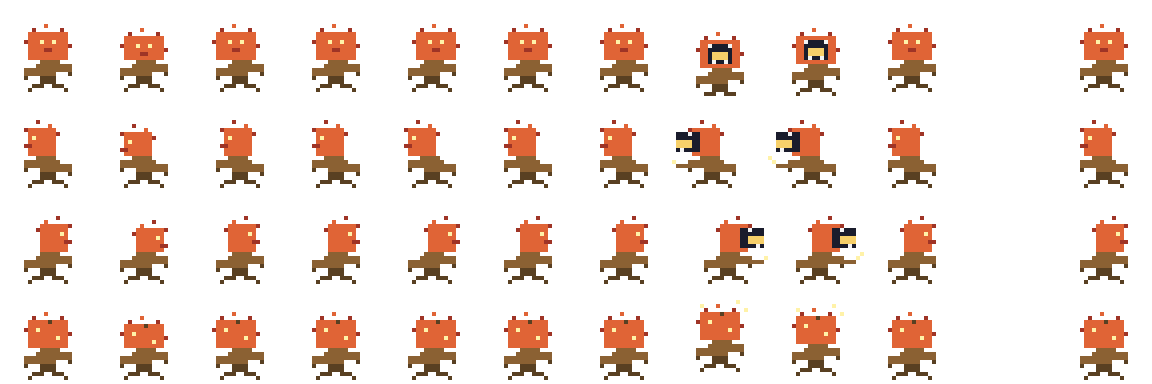
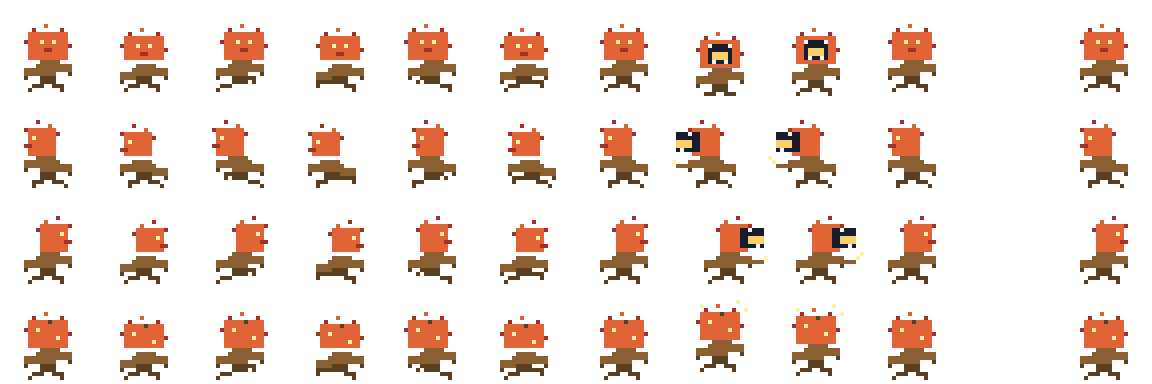
Repair shroom and carnivorous plant walk cycles

diff --git a/engine/renderer.js b/engine/renderer.js
@@ -838,31 +838,40 @@ function drawSpider(g, d, p, f, V, animId) {
 }
 
 function drawShroom(g, d, p, f, V, animId) {
-  const lean = (animId === 'walk') ? (f === 0 ? 1 : f === 2 ? -1 : 0) : 0;
-  const u = (animId === 'idle' && f === 1) ? 1 : 0;
+  const walking = animId === 'walk';
+  const gait = walking ? [
+    { x: 0,  bob: 0, lx: 8, ly: 20, rx: 13, ry: 19 },
+    { x: 1,  bob: 1, lx: 9, ly: 20, rx: 14, ry: 20 },
+    { x: 0,  bob: 0, lx: 9, ly: 19, rx: 14, ry: 20 },
+    { x: -1, bob: 1, lx: 8, ly: 20, rx: 13, ry: 20 },
+  ][f] : { x: 0, bob: 0, lx: 9, ly: 20, rx: 13, ry: 20 };
+  const u = walking ? gait.bob : ((animId === 'idle' && f === 1) ? 1 : 0);
+  const bx = gait.x;
   const ox = (d === 'right' ? p.lunge : 0);
   const oy = d === 'down' ? p.lunge : d === 'up' ? -p.lunge : 0;
   const S = (x, y, c) => g.set(x + ox, y + oy, c);
   const R = (x, y, w, h, c) => g.rect(x + ox, y + oy, w, h, c);
   const c = V.c;
 
-  // feet
-  R(9 + (lean === 1 ? 0 : 0), 20, 2, 2, CREAM[1]);
-  R(13, 20, 2, 2, CREAM[1]);
-  if (lean === 1) R(9, 19, 2, 1, CREAM[1]);
-  if (lean === -1) R(13, 19, 2, 1, CREAM[1]);
+  // The feet trade ground contact across all four walk frames while the
+  // complete upper body follows the step. This avoids the old detached cap
+  // slide where only the hat moved and the stem stayed frozen.
+  R(gait.lx, gait.ly, 2, 2, CREAM[1]);
+  R(gait.rx, gait.ry, 2, 2, CREAM[1]);
+  if (walking && f === 0) S(gait.lx - 1, gait.ly + 1, CREAM[1]);
+  if (walking && f === 2) S(gait.rx + 2, gait.ry + 1, CREAM[1]);
   // stem/body
-  R(9, 13 + u, 6, 7 - u, CREAM[0]);
-  R(9, 13 + u, 1, 7 - u, CREAM[1]);
+  R(9 + bx, 13 + u, 6, 7 - u, CREAM[0]);
+  R(9 + bx, 13 + u, 1, 7 - u, CREAM[1]);
   // face
   if (d === 'down') {
-    S(10, 15 + u, INK); S(13, 15 + u, INK);
-    if (animId === 'attack') { S(11, 17 + u, INK); S(12, 17 + u, INK); }
+    S(10 + bx, 15 + u, INK); S(13 + bx, 15 + u, INK);
+    if (animId === 'attack') { S(11 + bx, 17 + u, INK); S(12 + bx, 17 + u, INK); }
   } else if (d === 'right') {
-    S(13, 15 + u, INK);
+    S(13 + bx, 15 + u, INK);
   }
   // cap
-  const cx = lean;
+  const cx = bx;
   R(9 + cx, 8 + u, 6, 1, c[0]);
   R(8 + cx, 9 + u, 8, 2, c[0]);
   R(7 + cx, 11 + u, 10, 1, c[0]);
@@ -1672,20 +1681,30 @@ function drawCentipede(g, d, p, f, V, animId) {
 }
 
 function drawCarnivorousPlant(g, d, p, f, V, animId) {
-  const sway = animId === 'walk' ? (f === 0 ? -1 : f === 2 ? 1 : 0) : 0;
-  const bob = animId === 'idle' && f === 1 ? 1 : 0;
+  const walking = animId === 'walk';
+  const gait = walking ? [
+    { x: 0,  bob: 0, lx: 7, ly: 21, rx: 13, ry: 19 },
+    { x: 1,  bob: 1, lx: 8, ly: 20, rx: 14, ry: 21 },
+    { x: 0,  bob: 0, lx: 9, ly: 19, rx: 14, ry: 21 },
+    { x: -1, bob: 1, lx: 7, ly: 21, rx: 13, ry: 20 },
+  ][f] : { x: 0, bob: 0, lx: 8, ly: 21, rx: 13, ry: 21 };
+  const bob = walking ? gait.bob : (animId === 'idle' && f === 1 ? 1 : 0);
   const strike = animId === 'attack' && (f === 1 || f === 2);
   const ox = d === 'right' ? p.lunge : 0;
   const oy = d === 'down' ? p.lunge : d === 'up' ? -p.lunge : 0;
   const S = (x, y, cc) => g.set(x + ox, y + oy, cc);
   const R = (x, y, w, h, cc) => g.rect(x + ox, y + oy, w, h, cc);
   const stem = V.stem, bloom = V.bloom, maw = V.maw, pollen = V.pollen;
-  const cx = sway;
+  const bx = gait.x;
+  const cx = walking ? bx + p.leg : 0;
 
-  R(10, 15, 4, 6, stem[0]); R(10, 19, 4, 2, stem[1]);
-  S(9, 16, stem[0]); R(6, 17, 4, 2, stem[0]); S(6, 19, stem[1]);
-  S(14, 15, stem[0]); R(14, 16, 4, 2, stem[0]); S(17, 18, stem[1]);
-  R(8, 21, 3, 1, stem[1]); R(13, 21, 3, 1, stem[1]); S(7, 22, stem[1]); S(16, 22, stem[1]);
+  // Bend the whole stalk with the bloom, then alternate the two roots as
+  // actual stepping feet. The previous cycle moved only the bloom.
+  R(10 + bx, 15 + bob, 4, 6 - bob, stem[0]); R(10 + bx, 19, 4, 2, stem[1]);
+  S(9 + bx, 16 + bob, stem[0]); R(6 + bx, 17 + bob, 4, 2, stem[0]); S(6 + bx, 19 + bob, stem[1]);
+  S(14 + bx, 15 + bob, stem[0]); R(14 + bx, 16 + bob, 4, 2, stem[0]); S(17 + bx, 18 + bob, stem[1]);
+  R(gait.lx, gait.ly, 3, 1, stem[1]); R(gait.rx, gait.ry, 3, 1, stem[1]);
+  S(gait.lx - 1, Math.min(22, gait.ly + 1), stem[1]); S(gait.rx + 2, Math.min(22, gait.ry + 1), stem[1]);
 
   if (d === 'right') {
     R(10 + cx, 8 + bob, 7, 7 - bob, bloom[0]);
